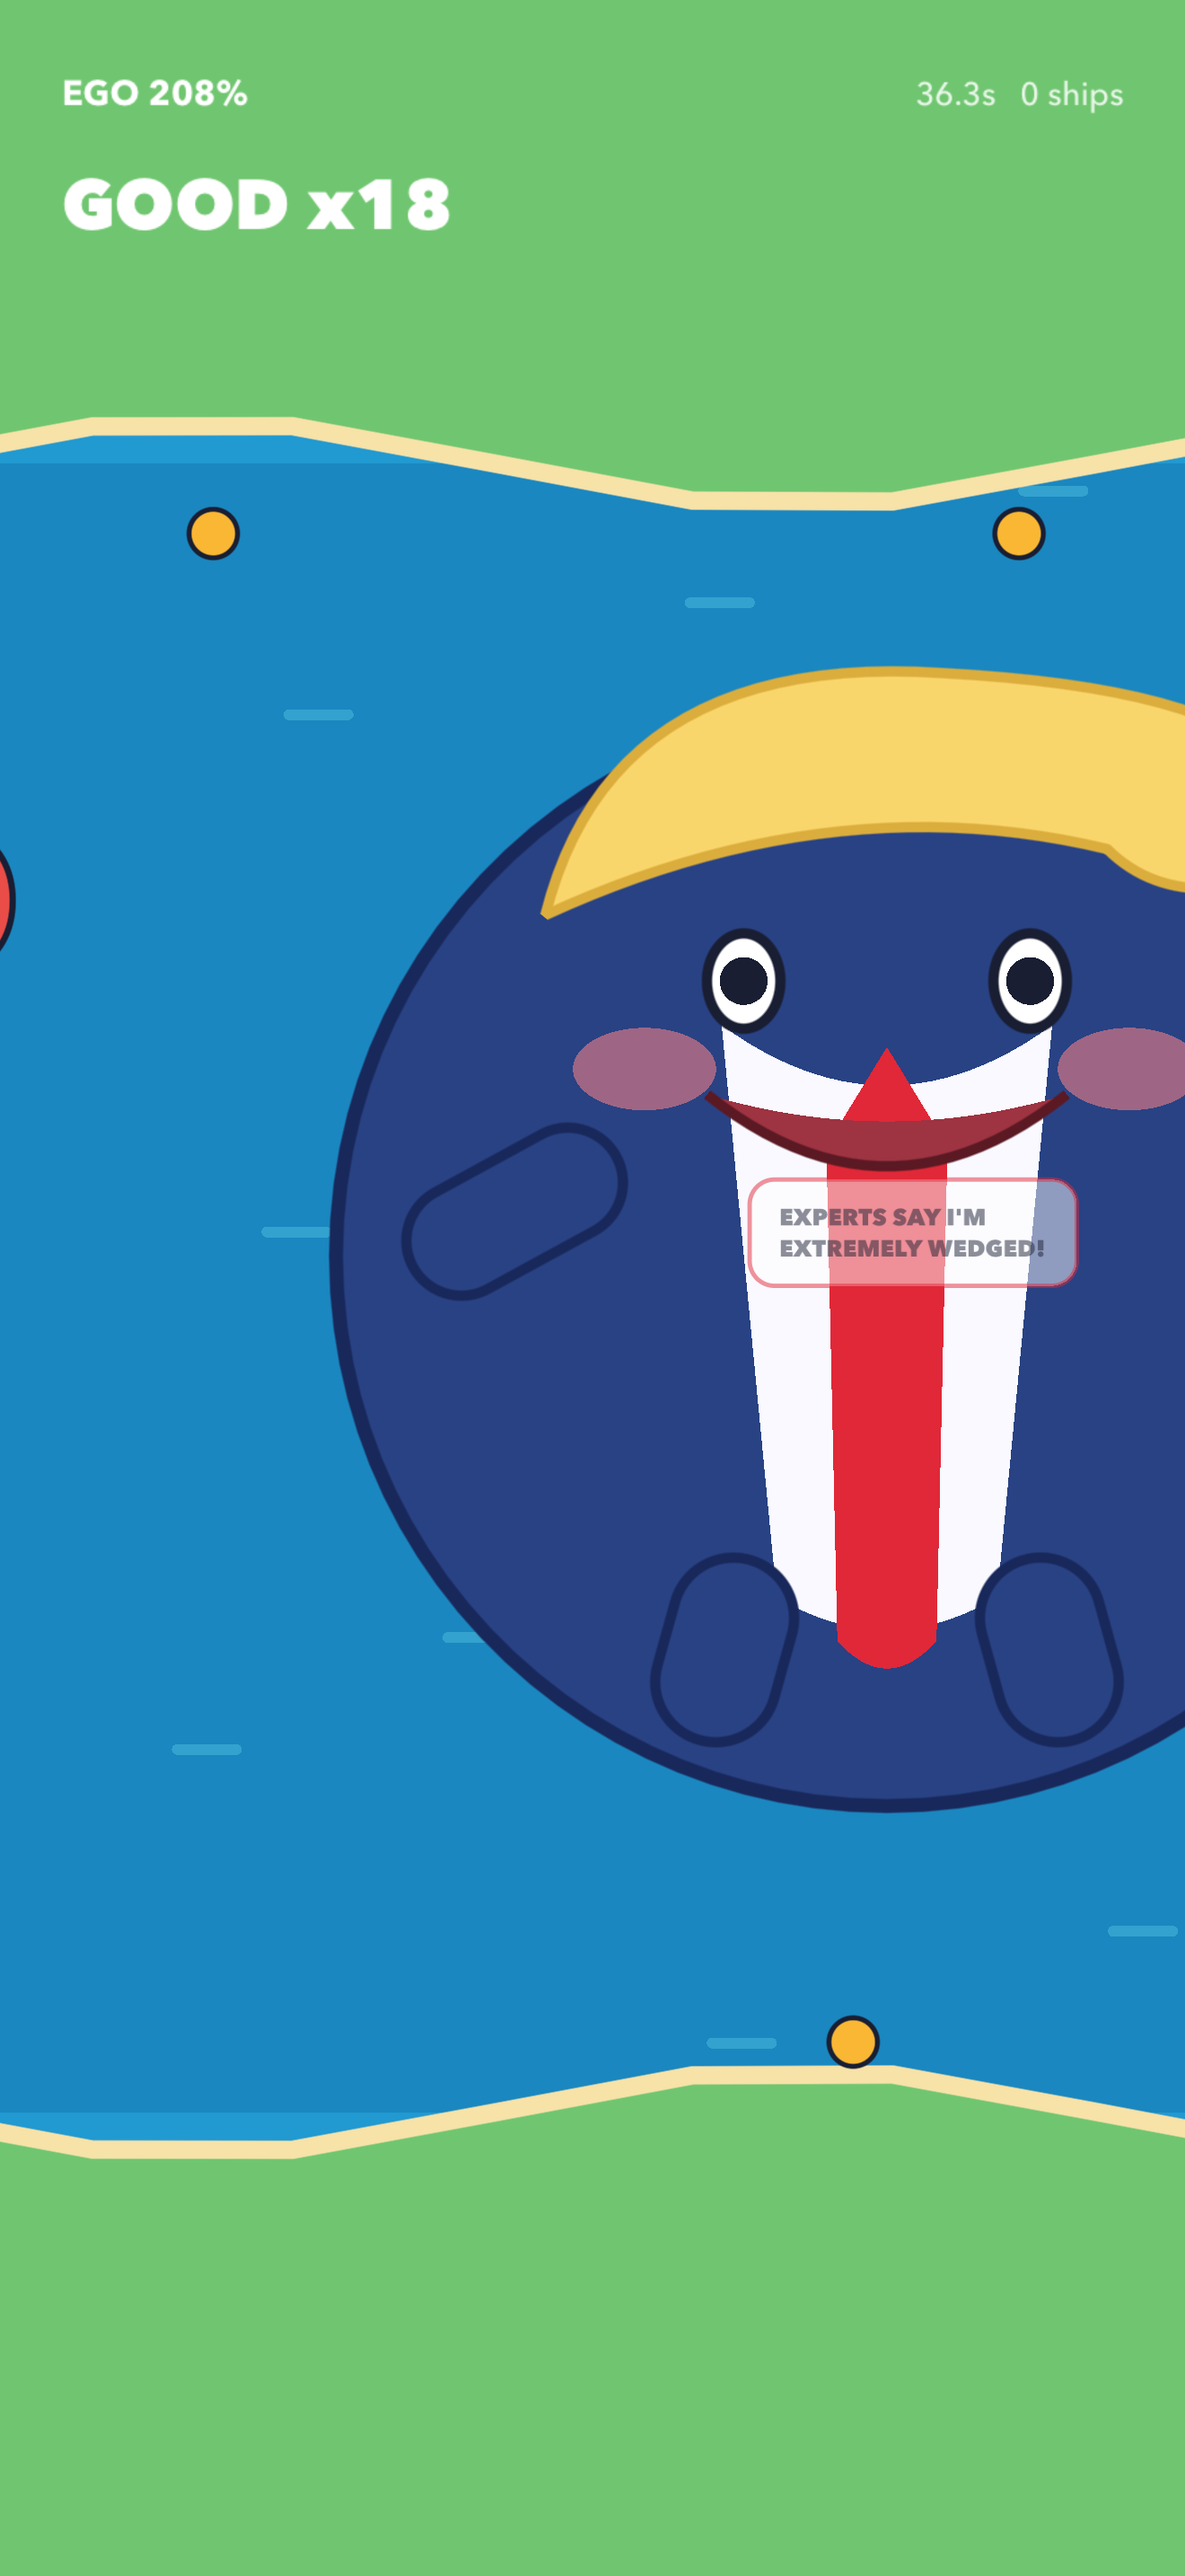
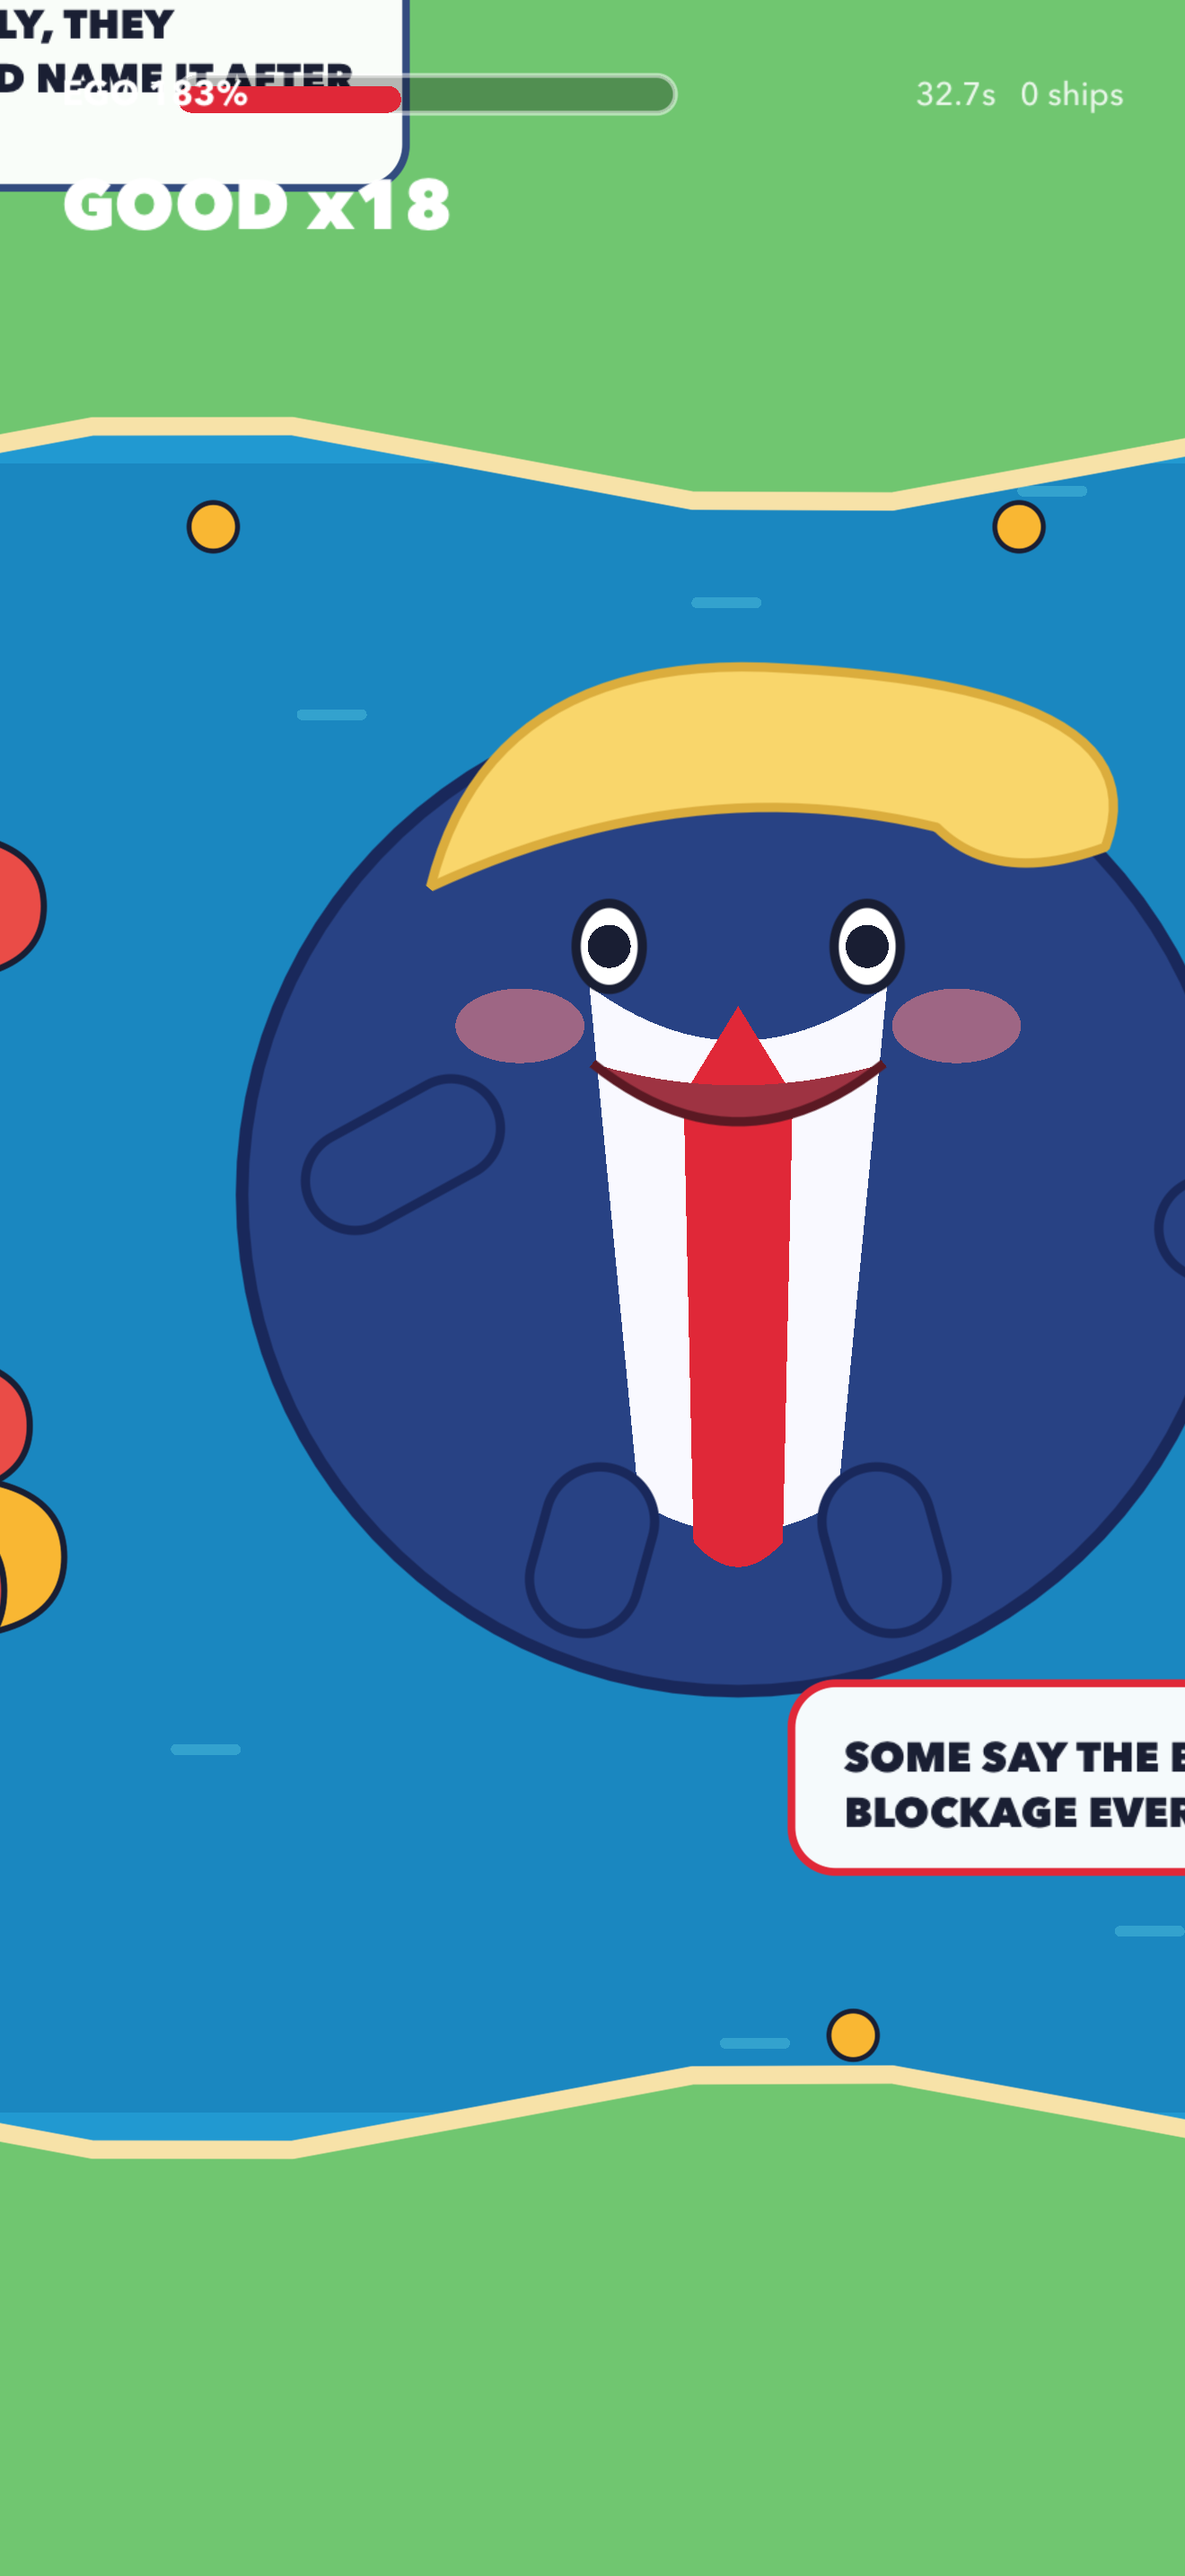
Clamp speech bubbles on screen, and capture the launch
Bubbles drifted off the edges with half their text cut off, and the ones that
went up sat on the ego meter, which is the readout the player needs to decide
whether to pop them. An unreadable, unreachable bubble is worse than none.

Also: six screenshot runs and the launch has never once been seen, which is the
payoff and the shot a store listing most needs. Reaching it honestly takes a
minute of well-timed play that a UI test cannot perform, so a -fastLaunch
argument lowers the bar for capture only. The shipped app is never started with
it.

Claude-Session: https://claude.ai/code/session_01VXPdxMbsVPGofWZELfPevi

diff --git a/Sources/Game/GameScene.swift b/Sources/Game/GameScene.swift
@@ -37,6 +37,9 @@ final class GameScene: SKScene, SKPhysicsContactDelegate {
     /// combo judge measures against.
     private let peakSpeed: Double = 620
 
+    /// Multiplies the escape threshold. One in the real game.
+    private var escapeScale: Double = 1
+
     /// Where the channel pinches, and where he is stuck.
     private var wedgeX: CGFloat = 0
 
@@ -80,6 +83,15 @@ final class GameScene: SKScene, SKPhysicsContactDelegate {
         // that. The left and right are open, because leaving to the right is
         // the entire objective.
         Haptics.prepare()
+
+        // Screenshot runs need to reach the launch, which is the payoff and the
+        // one thing a store listing has to show. Reaching it legitimately takes
+        // a minute of well-timed play, which a UI test cannot perform. This
+        // lowers the bar so the capture can get there, and is reachable only
+        // through a launch argument the shipped app is never started with.
+        if ProcessInfo.processInfo.arguments.contains("-fastLaunch") {
+            escapeScale = 0.06
+        }
     }
 
     override func didChangeSize(_ oldSize: CGSize) {
@@ -153,6 +165,7 @@ final class GameScene: SKScene, SKPhysicsContactDelegate {
         lastUpdate = currentTime
 
         blocker.tick(dt: CGFloat(dt))
+        for bubble in bubbles { bubble.clamp() }
 
         if isLaunched {
             updateLaunch(currentTime: currentTime)
@@ -201,9 +214,9 @@ final class GameScene: SKScene, SKPhysicsContactDelegate {
     private func checkEscape() {
         guard let pb = blocker.physicsBody else { return }
         let momentum = Double(hypot(pb.velocity.dx, pb.velocity.dy)) * Double(pb.mass)
-        hud.setEscape(progress: momentum / Escape.threshold(ego: ego))
+        hud.setEscape(progress: momentum / (Escape.threshold(ego: ego) * escapeScale))
 
-        guard Escape.isFreed(momentum: momentum, ego: ego) else { return }
+        guard momentum >= Escape.threshold(ego: ego) * escapeScale else { return }
         beginLaunch(momentum: momentum)
     }
 
@@ -316,6 +329,8 @@ final class GameScene: SKScene, SKPhysicsContactDelegate {
         let drift = CGVector(dx: side * CGFloat.random(in: 60...170),
                              dy: up ? CGFloat.random(in: 130...210) : CGFloat.random(in: -210 ... -130))
         let bubble = Bubble(text: Quotes.random(), from: start, drift: drift)
+        // Clear of the HUD at the top, and inside the screen everywhere else.
+        bubble.bounds = CGRect(x: 8, y: 8, width: size.width - 16, height: size.height - 150)
         bubble.homeProvider = { [weak self] in self?.blocker.position ?? .zero }
         bubble.onLanded = { [weak self] in
             guard let self else { return }

diff --git a/Tests/ScreenshotTests/ScreenshotTests.swift b/Tests/ScreenshotTests/ScreenshotTests.swift
@@ -54,4 +54,38 @@ final class ScreenshotTests: XCTestCase {
         sleep(14)
         snapshot("04_Tremendous")
     }
+
+    /// The launch, captured on its own run.
+    ///
+    /// Reaching it honestly takes a minute of well-timed play, which a UI test
+    /// cannot perform, so the app is started with -fastLaunch to lower the bar.
+    /// This is the shot the whole game builds to and the one a store listing
+    /// most needs.
+    @MainActor
+    func testCaptureLaunch() throws {
+        let app = XCUIApplication()
+        setupSnapshot(app)
+        app.launchArguments += ["-fastLaunch"]
+        app.launch()
+
+        app.buttons["PLAY"].firstMatch.tap()
+        sleep(2)
+
+        let frame = app.windows.firstMatch.frame
+        for i in 0..<14 {
+            let x = i % 2 == 0 ? frame.width * 0.24 : frame.width * 0.64
+            app.coordinate(withNormalizedOffset: .zero)
+                .withOffset(CGVector(dx: x, dy: frame.height * 0.5))
+                .tap()
+            usleep(140_000)
+        }
+        // Mid-flight, while he is still skipping and shouting.
+        sleep(2)
+        snapshot("05_Launch")
+
+        // And the payoff screen.
+        sleep(4)
+        snapshot("06_Result")
+    }
+    }
 }

diff --git a/Sources/Game/Bubbles.swift b/Sources/Game/Bubbles.swift
@@ -113,6 +113,23 @@ final class Bubble: SKNode {
     /// Where to return to. Set by the scene each frame, because he moves.
     var homeProvider: (() -> CGPoint)?
 
+    /// The rectangle the balloon must stay inside.
+    ///
+    /// Set by the scene. Without it a bubble drifts off the edge with half its
+    /// text cut off, and the ones that go up end up sitting on the ego meter,
+    /// which is the one readout the player needs while deciding whether to pop
+    /// it. An unreadable, unreachable bubble is worse than no bubble.
+    var bounds: CGRect = .infinite
+
+    /// Pull the balloon back inside the playable area.
+    func clamp() {
+        guard bounds != .infinite else { return }
+        let halfW = tapRadius
+        let halfH = tapRadius * 0.7
+        position.x = min(max(position.x, bounds.minX + halfW), bounds.maxX - halfW)
+        position.y = min(max(position.y, bounds.minY + halfH), bounds.maxY - halfH)
+    }
+
     private func turnHome() {
         guard !isPopped else { return }
         // Tint as it turns, so an incoming bubble is visually distinct from one
